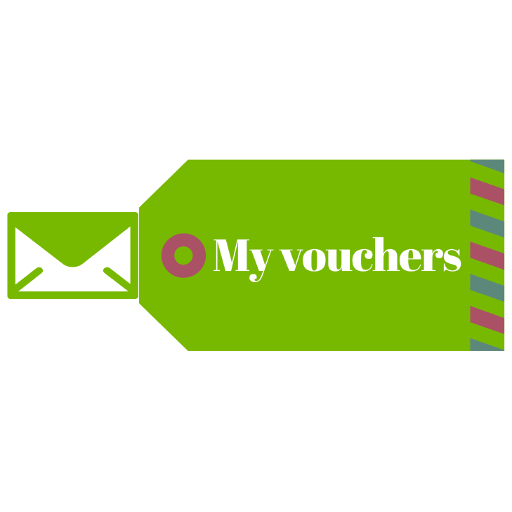
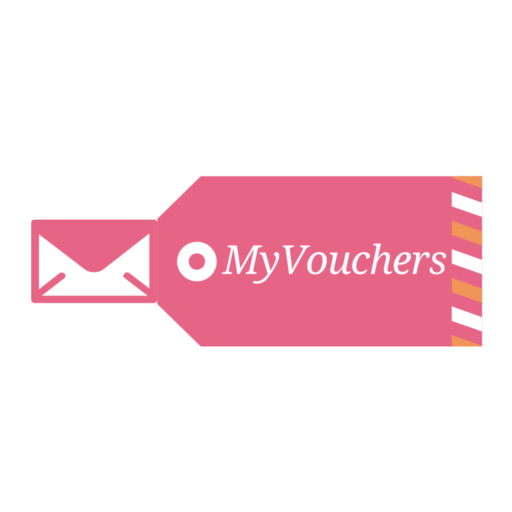
change background

Changed region(s): [[0.0, 0.3125, 1.0, 0.6875]]

diff --git a/public/css/app.css b/public/css/app.css
@@ -11933,9 +11933,9 @@ readers do not read off random characters that represent icons */
   --blue: #3490dc;
   --indigo: #6574cd;
   --purple: #9561e2;
-  --pink: #f66D9b;
+  --pink: #e66587;
   --red: #e3342f;
-  --orange: #f6993f;
+  --orange: #f09458;
   --yellow: #ffed4a;
   --green: #38c172;
   --teal: #4dc0b5;
@@ -12423,7 +12423,7 @@ mark,
 
 code {
   font-size: 87.5%;
-  color: #f66D9b;
+  color: #e66587;
   word-wrap: break-word;
 }
 a > code {
@@ -54128,12 +54128,34 @@ h3 {
 }
 
 .navbar-laravel {
-  background-color: #f8fafc;
+  background: #f8fafc;
   box-shadow: 0 2px 4px rgba(0, 0, 0, 0.04);
 }
 
 body {
-  background: -webkit-linear-gradient(left, #38c172, #4dc0b5);
+  background-attachment: fixed;
+  background-image: url("https://myvouchers.pl/welcome/img/body-bg.jpg");
+  background-position: top center;
+  background-repeat: no-repeat;
+  background-size: cover;
+  position: relative;
+}
+body:after {
+  position: absolute;
+  content: "";
+  left: 0;
+  top: 0;
+  width: 100%;
+  height: 100%;
+  position: fixed;
+  background-image: -webkit-linear-gradient(0deg, #e66587 0%, #f09458 100%);
+  opacity: 0.6;
+  z-index: -1;
+}
+
+main {
+  background: -webkit-linear-gradient(left, #e66587, #f09458);
+  margin: 50px;
 }
 
 .emp-profile {

diff --git a/resources/sass/app.scss b/resources/sass/app.scss
@@ -56,20 +56,44 @@
 }
 
 .navbar-laravel {
-    background-color: $body-bg;
+    background: $body-bg;
   box-shadow: 0 2px 4px rgba(0, 0, 0, 0.04);
 }
 
 body{
-  background: -webkit-linear-gradient(left, $green, $teal);
+    background-attachment: fixed;
+    background-image: url("https://myvouchers.pl/welcome/img/body-bg.jpg");
+    //background-image: url("../images/body-bg.jpg");
 
+    background-position: top center;
+    background-repeat: no-repeat;
+    background-size: cover;
+    position: relative;
+    &:after {
+        position: absolute;
+        content: "";
+        left: 0;
+        top: 0;
+        width: 100%;
+        height: 100%;
+        position: fixed;
+        background-image: -webkit-linear-gradient( 0deg, rgb(230,101,135) 0%, rgb(240,148,88) 100%);
+        opacity: 0.6;
+        z-index: -1;
+    }
+
+}
+main {
+    background: -webkit-linear-gradient(left, $pink, $orange);
+    margin:50px;
 }
 .emp-profile{
   padding: 3%;
   margin-top: 3%;
   margin-bottom: 3%;
   border-radius: 0.5rem;
-  background: $body-bg;
+    //
+    background: $body-bg;
 }
 .profile-img{
   text-align: center;

diff --git a/resources/sass/_variables.scss b/resources/sass/_variables.scss
@@ -11,9 +11,9 @@ $line-height-base: 1.6;
 $blue: #3490dc;
 $indigo: #6574cd;
 $purple: #9561e2;
-$pink: #f66D9b;
+$pink: #e66587;
 $red: #e3342f;
-$orange: #f6993f;
+$orange: #f09458;
 $yellow: #ffed4a;
 $green: #38c172;
 $teal: #4dc0b5;

diff --git a/resources/views/welcome.blade.php b/resources/views/welcome.blade.php
@@ -372,7 +372,7 @@
                 <div class="logo">
                     <img src="welcome/img/logo.png" alt="">
                 </div>
-                <div class="copy-right-text">Copyright &copy; {{ \Carbon\Carbon::now()->year }}  |  All rights reserved to Dinomuz inc. This template is made with <i class="fa fa-heart-o" aria-hidden="true"></i> by <a href="https://colorlib.com" target="_blank">Colorlib</a></div>
+                <div class="copy-right-text">Copyright &copy; {{ \Carbon\Carbon::now()->year }}  |  All rights reserved to MyVouchers</div>
                 <div class="footer-social">
 {{--                    <a href="#"><i class="fa fa-facebook"></i></a>--}}
 {{--                    <a href="#"><i class="fa fa-twitter"></i></a>--}}
